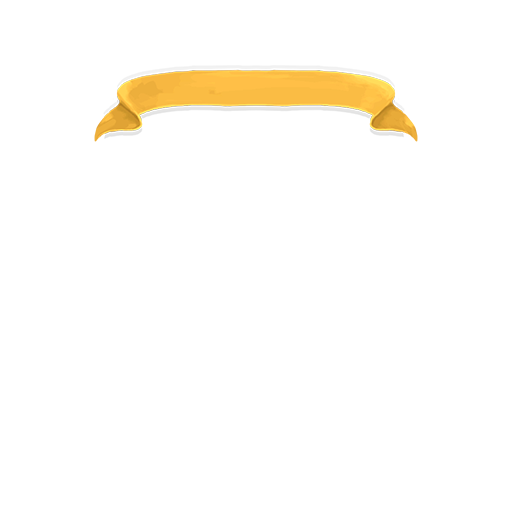
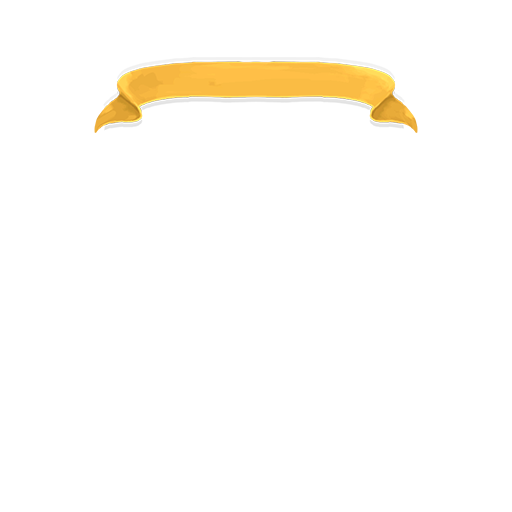
added blue and red special rare cards background

Changed region(s): [[0.1875, 0.0938, 0.8125, 0.2812]]

diff --git a/theThief/src/main/java/thiefmod/cards/stolen/RareFind/StolenBlood.java b/theThief/src/main/java/thiefmod/cards/stolen/RareFind/StolenBlood.java
@@ -55,8 +55,14 @@ public class StolenBlood extends AbstractBackstabCard {
     public StolenBlood() {
         super(ID, NAME, IMG, COST, DESCRIPTION, TYPE, COLOR, RARITY, TARGET);
 
-        this.setBackgroundTexture("thiefmodAssets/images/512/special/red_rare_skill_bg.png", "thiefmodAssets/images/1024/special/red_rare_skill_bg.png");
-        this.setBannerTexture("thiefmodAssets/images/512/special/red_rare_skill_banner.png", "thiefmodAssets/images/1024/special/red_rare_skill_banner.png");
+        setBackgroundTexture("thiefmodAssets/images/512/special/red_rare_skill_bg.png",
+                "thiefmodAssets/images/1024/special/red_rare_skill_bg.png");
+
+        setOrbTexture("thiefmodAssets/images/512/card_thief_gray_orb.png",
+                "thiefmodAssets/images/1024/card_thief_gray_orb.png");
+
+        setBannerTexture("thiefmodAssets/images/512/special/red_rare_skill_banner.png",
+                "thiefmodAssets/images/1024/special/red_rare_skill_banner.png");
 
         this.magicNumber = this.baseMagicNumber = MAGIC;
         tags.add(ThiefCardTags.STOLEN);

diff --git a/theThief/src/main/java/thiefmod/cards/stolen/RareFind/StolenArsenal.java b/theThief/src/main/java/thiefmod/cards/stolen/RareFind/StolenArsenal.java
@@ -52,6 +52,15 @@ public class StolenArsenal extends AbstractBackstabCard {
     public StolenArsenal() {
         super(ID, NAME, IMG, COST, DESCRIPTION, TYPE, COLOR, RARITY, TARGET);
 
+        setBackgroundTexture("thiefmodAssets/images/512/special/red_rare_skill_bg.png",
+                "thiefmodAssets/images/1024/special/red_rare_skill_bg.png");
+
+        setOrbTexture("thiefmodAssets/images/512/card_thief_gray_orb.png",
+                "thiefmodAssets/images/1024/card_thief_gray_orb.png");
+
+        setBannerTexture("thiefmodAssets/images/512/special/red_rare_skill_banner.png",
+                "thiefmodAssets/images/1024/special/red_rare_skill_banner.png");
+
         tags.add(ThiefCardTags.STOLEN);
         exhaust = true;
 

diff --git a/theThief/src/main/java/thiefmod/cards/stolen/RareFind/StolenCore.java b/theThief/src/main/java/thiefmod/cards/stolen/RareFind/StolenCore.java
@@ -61,6 +61,15 @@ public class StolenCore extends AbstractBackstabCard {
         this.backstabNumber = this.baseBackstabNumber = ORB_SLOTS;
 
 
+        setBackgroundTexture("thiefmodAssets/images/512/special/blue_rare_skill_bg.png",
+                "thiefmodAssets/images/1024/special/blue_rare_skill_bg.png");
+
+        setOrbTexture("thiefmodAssets/images/512/card_thief_gray_orb.png",
+                "thiefmodAssets/images/1024/card_thief_gray_orb.png");
+
+        setBannerTexture("thiefmodAssets/images/512/special/blue_rare_skill_banner.png",
+                "thiefmodAssets/images/1024/special/blue_rare_skill_banner.png");
+
         tags.add(ThiefCardTags.STOLEN);
         exhaust = true;
 
